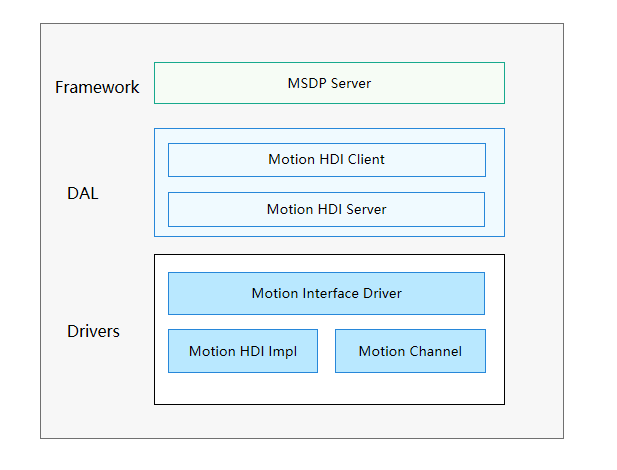
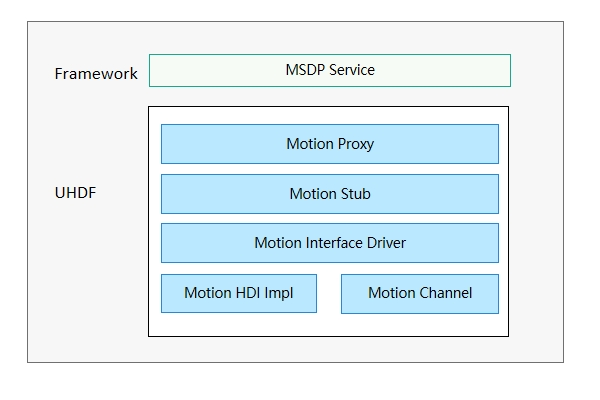
docs: Update motion readme document

diff --git a/motion/Readme_zh.md b/motion/Readme_zh.md
@@ -4,7 +4,7 @@
 
 基于HDF（Hardware Driver Foundation）驱动框架开发的Motion驱动，能够屏蔽硬件器件差异，为上层服务提供稳定的手势识别基础能力接口，包括Motion使能/去使能、Motion订阅/去订阅等稳定的接口。
 
-Motion驱动模块如图1所示，上层为Framework层的综合传感信息处理平台（MSDP）服务，通过DAL层的Motion HDI客户端与Motion HDI 服务端进行交互。Motion HDI服务通过调用Motion HDI实现类接口，从而实现上层服务的Motion使能/去使能、Motion订阅/去订阅等能力。
+Motion驱动模块如图1所示，上层为Framework层，提供MSDP服务，通过UHDF（User Hardware Driver Foundation）层的Motion Proxy与Motion Stub进行交互；而Motion Stub可调用Motion HDI实现类接口，从而实现上层服务的手势识别使能/去使能、手势识别订阅/去订阅等能力。。
 
 **图 1** Motion驱动模块架构图
 